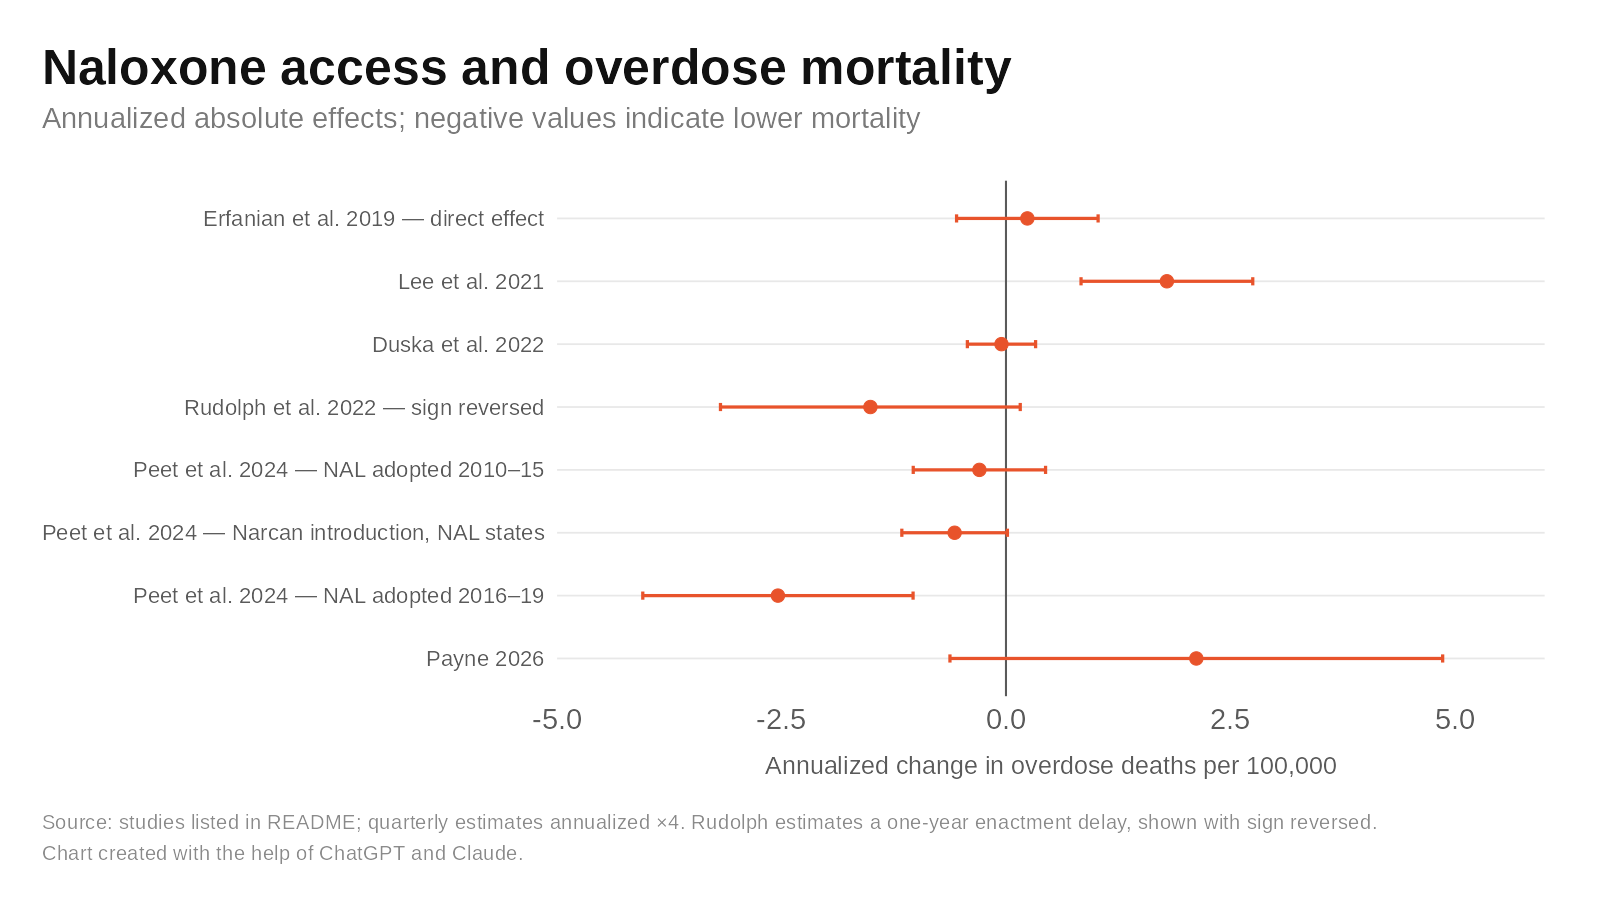
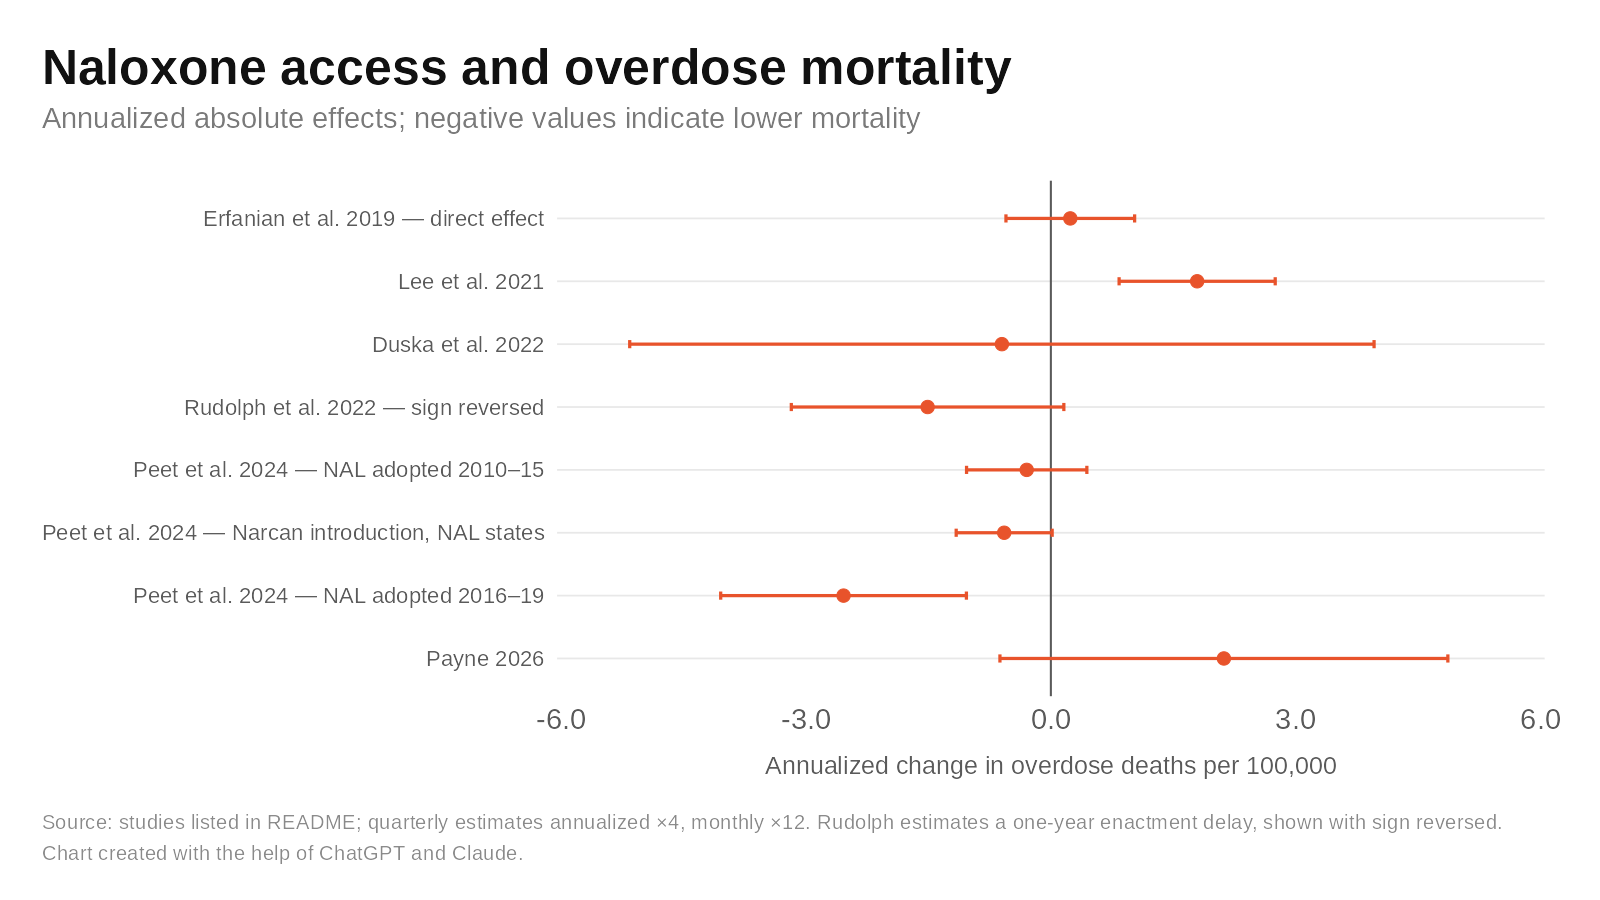
Verify Rees, Dowd, Duska, Toce against supplied full texts
- Rees: use published JLE Table 3 Poisson coefficient -0.095 (SE 0.039)
- Dowd: cite Table 2 IRRs 0.853 and 1.267 directly; document design
- Duska: estimate is per 100k per month; multiply by 12
- Toce: supplement confirms GEE with no state fixed effects
- Note that Alexeev does not re-estimate mortality
- Regenerate figures and effects.csv

Claude-Session: https://claude.ai/code/session_018rnpYJ2PKGEioDdm2cd7nr

diff --git a/README.md b/README.md
@@ -31,7 +31,7 @@ Rate ratios and estimates that can be represented on a percent-change scale are 
 
 ### Absolute effects
 
-Absolute rate differences are placed on a common annualized scale: deaths per 100,000 per year. Annual estimates are left unchanged; quarterly estimates are multiplied by 4. Monthly estimates would be multiplied by 12; the included set contains none.
+Absolute rate differences are placed on a common annualized scale: deaths per 100,000 per year. Annual estimates are left unchanged; quarterly estimates are multiplied by 4; the one monthly estimate (Duska) is multiplied by 12.
 
 ![Annualized absolute effects](figures/annualized_absolute_effects.svg)
 
@@ -40,20 +40,20 @@ Absolute rate differences are placed on a common annualized scale: deaths per 10
 | Study | Policy | Design | Outcome | Effect scale | Estimate | 95% CI | Notes | Source |
 |---|---|---|---|---|---:|---:|---|---|
 | McClellan et al. 2018 | NAL | Mixed-effects negative binomial (state random effects, year FE, 1-year lag) | Opioid overdose deaths | Relative (%) | −14.0% | −25.1% to −1.2% | Paper reports IRR 0.86, p = 0.033, and no interval; CI derived from the p-value. | [link](https://pubmed.ncbi.nlm.nih.gov/29610001/) |
-| Rees et al. 2019 | NAL | TWFE Poisson, state-year 1999–2014 | Opioid-related deaths (multiple-cause T-codes) | Relative (%) | −9.1% | −15.6% to −2.0% | exp(b)−1 from coefficient −0.095 (SE 0.038), full-controls column of the NBER working paper. Published version says the effect is driven by pre-2011 adopters. | [link](https://chicagounbound.uchicago.edu/jle/vol62/iss1/1/) |
+| Rees et al. 2019 | NAL | TWFE Poisson, state-year 1999–2014 | Opioid-related deaths (multiple-cause T-codes) | Relative (%) | −9.1% | −15.7% to −1.8% | exp(b)−1 from the published Table 3 Poisson full-controls coefficient −0.095 (SE 0.039). OLS columns give −15% to −21%. Effect is driven by pre-2011 adopters. | [link](https://chicagounbound.uchicago.edu/jle/vol62/iss1/1/) |
 | Atkins et al. 2019 | NAL (any naloxone policy) | TWFE Poisson DD, state-year 1999–2016 | Opioid overdose deaths | Relative (%) | +9.9% | −6.2% to +28.7% | Naloxone is a covariate in the paper's Good Samaritan analysis. Table 4 Panel B, 0.0943 (SE 0.0805). | [link](https://pmc.ncbi.nlm.nih.gov/articles/PMC6407344/) |
 | Abouk et al. 2019‡ | NAL, direct pharmacist authority | DID / event study, state-month 2005–2016 | Opioid overdose deaths | Relative (%) | −33.9% | −57.5% to −10.4% | 3+ years post-adoption: −0.387 (−0.656, −0.119) deaths per 100k per month, divided by comparison mean 1.14. Nine direct-authority states. | [link](https://pmc.ncbi.nlm.nih.gov/articles/PMC6503576/) |
 | Cataife et al. 2021† | NAL | Matched staggered DID, state-year 1999–2014 | Opioid-related deaths | Relative (%) | −0.2% | −20.5% to +25.3% | Table 1 Model 1 (homogeneous static model), −0.002 (SE 0.116). Authors prefer the region-by-year model. | [link](https://pubmed.ncbi.nlm.nih.gov/31951788/) |
 | Doleac & Mukherjee 2022 | NAL, third-party or standing order | Staggered DID, urban county-month 2010–2015 | Opioid-related deaths | Relative (%) | +1.0% | −7.8% to +9.8% | Published Table 4: 0.006 (SE 0.027) on 2010 baseline 0.601 per 100k per month. | [link](https://www.journals.uchicago.edu/doi/10.1086/719588) |
 | Sohn et al. 2023§ | Co-prescribing mandate | Negative-binomial DID, state-quarter 1999–2020 | Prescription/treatment-opioid deaths | Relative (%) | −16.0% | −28.1% to −3.9% | −8.61 (−15.13, −2.09) deaths per state-quarter, stated as 16%; illicit/synthetic estimate is null. Full text pending. | [link](https://www.sciencedirect.com/science/article/abs/pii/S0749379722005281) |
-| Dowd 2023 — 2018 giveaway | Naloxone giveaway | Tract/ZCTA distance-based DID and event study, Philadelphia and Pittsburgh | Opioid overdose deaths | Relative (%) | −14.7% | −31.0% to +5.6% | As previously coded; full text pending. | [link](https://onlinelibrary.wiley.com/doi/full/10.1002/hec.4755) |
-| Dowd 2023 — 2019 giveaway | Naloxone giveaway | Same | Opioid overdose deaths | Relative (%) | +26.7% | −1.5% to +62.9% | As previously coded; full text pending. | [link](https://onlinelibrary.wiley.com/doi/full/10.1002/hec.4755) |
+| Dowd 2023 — 2018 giveaway | Naloxone giveaway (13 Dec 2018) | Fixed-effects Poisson DID, census tract × quarter, Philadelphia five counties and Allegheny County, 2017Q2–2020Q1 | Opioid overdose deaths | Relative (%) | −14.7% | −31.0% to +5.6% | Table 2 IRR 0.853 [0.690–1.056]; treated tracts within 3 km of a giveaway site and more than 3 km from other free naloxone; two post quarters. Event study finds IRR 0.59 (p = 0.01) in the first post quarter. | [link](https://onlinelibrary.wiley.com/doi/full/10.1002/hec.4755) |
+| Dowd 2023 — 2019 giveaway | Naloxone giveaway (18 and 25 Sep 2019) | Same | Opioid overdose deaths | Relative (%) | +26.7% | −1.5% to +62.9% | Table 2 IRR 1.267 [0.985–1.629], p < 0.10. Pooled Callaway–Sant'Anna analysis of both giveaways finds no significant effect. | [link](https://onlinelibrary.wiley.com/doi/full/10.1002/hec.4755) |
 | HEALing Communities 2024¶ | Multicomponent RCT | Cluster randomized trial, 67 communities | Opioid overdose deaths | Relative (%) | −9.0% | −24.0% to +9.0% | Adjusted RR 0.91 (0.76–1.09), p = 0.30. | [link](https://www.nejm.org/doi/full/10.1056/NEJMoa2401177) |
 | Freisthler et al. 2024¶ | Multicomponent RCT | Same trial, secondary analysis | All-drug overdose deaths | Relative (%) | −8.0% | −22.0% to +7.0% | Adjusted RR 0.92 (0.78–1.07). Nested outcome on the same communities and period as the NEJM row. | [link](https://jamanetwork.com/journals/jamanetworkopen/fullarticle/2825142) |
 | Spackman et al. 2025 | Take-home naloxone distribution (Alberta) | Poisson PML with zone and time FE, 5 zones × month 2015–2019 | Opioid-related deaths | Relative (%), per 10,000 kits | −23.9% | −33.7% to −12.6% | Dose-response effect of kits in circulation, not a binary policy effect. Only five cross-sectional units. | [link](https://pubmed.ncbi.nlm.nih.gov/40459670/) |
 | Erfanian et al. 2019 — direct effect | NAL | Spatial Durbin TWFE, state-year 1999–2016 | Opioid overdose deaths per 100k | Annualized deaths / 100k / year | +0.24 | −0.55 to +1.03 | Direct effect 0.238 (p = 0.554), CI derived from p-value. Indirect (spillover) effect +5.77 (p < 0.001) and total effect about +6.0 are not plotted. | [link](https://rrs.scholasticahq.com/article/7932-the-impact-of-naloxone-access-laws-on-opioid-overdose-deaths-in-the-u-s) |
 | Lee et al. 2021 | NAL | Panel-matching DID, state-quarter 2007–2018 | All-drug overdose deaths | Annualized deaths / 100k / year | +1.79 | +0.84 to +2.75 | 1344.3 (627.1–2061.6) per 300 million per quarter, pooled over leads 0–12; ÷3000, ×4. | [link](https://jamanetwork.com/journals/jamanetworkopen/fullarticle/2776301) |
-| Duska et al. 2022 | Co-prescribing mandate (AZ, FL, RI, VT, VA) | Synthetic control, state-year 2012–2018 | Opioid-related deaths | Annualized deaths / 100k / year | −0.05 | −0.43 to +0.33 | From abstract; units and CI method pending full text. | [link](https://journals.sagepub.com/doi/10.1177/20503245221112575) |
+| Duska et al. 2022 | Co-prescribing mandate (AZ, FL, RI, VT, VA) | Generalized synthetic control, state-month 2012–2018 | Opioid-related deaths | Annualized deaths / 100k / year | −0.60 | −5.16 to +3.96 | Table 1 pooled ATT −0.05 (−0.43, 0.33) per 100k per month, parametric-bootstrap CI, ×12. Only 6–8 post-adoption months for AZ, FL, and RI. | [link](https://journals.sagepub.com/doi/10.1177/20503245221112575) |
 | Rudolph et al. 2022 | NAL | Doubly robust longitudinal estimator, US counties 2007–2018 | Opioid overdose deaths per 100k aged 12+, 2018 | Annualized deaths / 100k / year | −1.51 | −3.18 to +0.16 | Paper estimates the effect of delaying enactment by one year (+1.51); sign reversed here. Covariate-adjusted, not unit FE. | [link](https://pmc.ncbi.nlm.nih.gov/articles/PMC9373236/) |
 | Peet et al. 2024 — NAL adopted 2010–15 | NAL (dispensing) | Imputation DID, state-quarter | Non-synthetic opioid deaths, age-adjusted | Annualized deaths / 100k / year | −0.30 | −1.03 to +0.44 | Table 3 +LASSO, −0.074 (SE 0.094) per quarter ×4. | [link](https://www.nber.org/papers/w33105) |
 | Peet et al. 2024 — Narcan introduction, NAL states | Narcan introduction (2016) | Imputation DID, state-quarter 2010–2019 | Non-synthetic opioid deaths, age-adjusted | Annualized deaths / 100k / year | −0.57 | −1.16 to +0.02 | Table 3 +LASSO, −0.143 (SE 0.075) per quarter ×4. Not an NAL-adoption effect. | [link](https://www.nber.org/papers/w33105) |
@@ -63,13 +63,13 @@ Absolute rate differences are placed on a common annualized scale: deaths per 10
 ## Coding notes
 
 - **McClellan et al. (2018):** the paper prints a 14% reduction and p = 0.033 but no interval. The interval here is derived from the p-value. The model uses state random effects with a one-year treatment lag and no policy covariates.
-- **Rees et al. (2019):** the percentage is converted from the Poisson coefficient in the full-controls column of the working-paper Table 3. The authors describe the effect as 9–11% (working paper) or 9–10% (published). The published tables have not been checked.
+- **Rees et al. (2019):** the percentage is converted from the published Table 3 Poisson full-controls coefficient, −0.095 (SE 0.039). The OLS columns of the same table give −0.166 and −0.240 (15% and 21% reductions); the authors summarize the Poisson results as 9–10%.
 - **Erfanian et al. (2019):** the dependent variable is deaths per 100,000 in levels, so the row sits in the absolute panel. Only the within-state direct effect is plotted. The authors' headline is a significant positive spillover to neighboring states and a total effect of about +6 deaths per 100,000; the paper prints p-values only, so no CI can be derived for the indirect effect.
 - **Cataife et al. (2021):** the plotted scalar is the homogeneous static model (Table 1, Model 1). The authors prefer a dynamic specification with region-by-year heterogeneity, which finds reductions of 21–65% in western states, no effect in the Northeast and South, and a 43% increase in the implementation year in the Midwest.
 - **Abouk et al. (2019):** the displayed percent effect uses the 3+-year direct-pharmacist-authority estimate. The percentage CI treats the comparison mean as fixed.
-- **Doleac & Mukherjee (2022):** the published Table 4 coefficient is 0.006 (SE 0.027) per 100,000 per month. Regional estimates in the online appendix show a significant increase in the Midwest. Alexeev (2025, *Economic Inquiry*) argues the law-timing coding and inference are flawed; its published claim concerns ER admissions.
-- **Sohn et al. (2023)** and **Duska et al. (2022)** evaluate naloxone co-prescribing mandates, a prescriber-side policy, not public access laws or distribution.
-- **Dowd (2023):** the two Pennsylvania giveaways are shown separately because the paper reports opposite-signed event-specific estimates. The percentages imply log coefficients of about −0.16 (SE 0.11) and +0.24 (SE 0.13). The full text has not yet been checked.
+- **Doleac & Mukherjee (2022):** the published Table 4 coefficient is 0.006 (SE 0.027) per 100,000 per month. Regional estimates in the online appendix show a significant increase in the Midwest. Alexeev (2025, *Economic Inquiry*) re-analyzes the replication package and finds law-timing errors and invalid inference; the corrected ER-admission effect is null. The restricted mortality files are not in the package, so Alexeev does not re-estimate the mortality result.
+- **Sohn et al. (2023)** and **Duska et al. (2022)** evaluate naloxone co-prescribing mandates, a prescriber-side policy, not public access laws or distribution. Duska uses Xu's generalized synthetic control on state-month data with a parametric-bootstrap CI; the pooled estimate is per 100,000 per month and is multiplied by 12 here, which is why its interval is the widest in the absolute panel.
+- **Dowd (2023):** the two Pennsylvania giveaways are shown separately because Table 2 reports opposite-signed estimates: IRR 0.853 (0.690–1.056) after the December 2018 giveaway and 1.267 (0.985–1.629) after the September 2019 giveaway. The pooled Callaway–Sant'Anna analysis finds no significant effect on deaths. Treatment is defined by tract distance to giveaway sites (within 3 km) in the Philadelphia and Pittsburgh areas, with tract and quarter fixed effects.
 - **HEALing Communities / Freisthler (2024):** two publications from the same cluster-randomized trial, not independent experiments. The intervention included naloxone distribution, medications for opioid use disorder, and safer prescribing, so it does not identify a naloxone-only effect. The NEJM outcome is opioid-involved deaths; the Freisthler outcome is all-drug deaths.
 - **Spackman et al. (2025):** the effect is per 10,000 take-home naloxone kits in circulation across five Alberta health zones. It is a dose-response estimate with zone and time fixed effects, not a binary policy effect.
 - **Lee et al. (2021):** the outcome is all-drug overdose deaths. The reported number is a random-effects pooled mean over thirteen quarterly lead-specific effects, converted from per 300 million to per 100,000 and annualized. The authors interpret the positive estimate as moral hazard.

diff --git a/appendix/excluded_its.md b/appendix/excluded_its.md
@@ -16,7 +16,7 @@ Studies are listed by year. The first column of the table gives the reason class
 | One-group | Allen et al. 2022 | ARIMA interrupted time series; Clark County, Nevada, January 2015–December 2020 | Single county series before and after naloxone dispensing from public health vending machines (March 2019) | Step change −8.52 opioid-involved deaths per month (p = 0.002); slope change +1.01 per month (p < 0.001); 41 deaths averted in the first 12 months (229 observed vs 270 forecast) | Single-series ITS with no comparison. | [PMC](https://pmc.ncbi.nlm.nih.gov/articles/PMC9542801/) |
 | No unit FE | Tabatabai et al. 2023 | Longitudinal linear mixed model; 37 states, 2006–2019 | State-years with vs without an NAL; random state intercept and quadratic time trajectory | NAL: −0.313 synthetic-opioid deaths/100k (95% CI −0.552 to −0.074) | Random intercept rather than state fixed effects; no event-study or pre-trend check. | [PMC](https://pmc.ncbi.nlm.nih.gov/articles/PMC9834937/) |
 | One-group | Yeung et al. 2023 | Interrupted time series; Alberta municipalities and province, deaths October 2013–March 2019 | Municipal and provincial series before and after the community-based naloxone program (January 2016) and supervised consumption sites (2018) | Urban opioid-related deaths level change +9.1 per month (+40%; 95% CI 6.7 to 11.5) after the naloxone program | One-group ITS; the naloxone interruption coincides with fentanyl emergence in Alberta. | [PMC](https://pmc.ncbi.nlm.nih.gov/articles/PMC10287102/) |
-| No unit FE | Toce et al. 2024 | Interrupted time series; state-level opioid deaths at ages 15–24, 1999–2021 | States grouped by type of naloxone access law; population-averaged negative-binomial ITS | Trend (slope) IRR 0.97 (0.91–1.04) for patient-specific laws and 1.01 (0.96–1.06) for patient-nonspecific laws; immediate level-change IRR 0.88 (0.50–1.25) and 1.10 (0.94–1.27) | Published methods describe population-averaged negative-binomial models; no state fixed effects are reported. | [JAMA Pediatrics](https://jamanetwork.com/journals/jamapediatrics/fullarticle/2824897) |
+| No unit FE | Toce et al. 2024 | Interrupted time series; state-level opioid deaths at ages 15–24, 1999–2021 | States grouped by type of naloxone access law; population-averaged negative-binomial ITS | Trend (slope) IRR 0.97 (0.91–1.04) for patient-specific laws and 1.01 (0.96–1.06) for patient-nonspecific laws; immediate level-change IRR 0.88 (0.50–1.25) and 1.10 (0.94–1.27) | Supplement eMethods 3 confirms a population-averaged negative-binomial GEE with exchangeable within-state correlation, robust variance, and state policy covariates (pain clinic laws, prescribing guidelines, PDMP mandates, Good Samaritan laws); no state fixed effects. | [JAMA Pediatrics](https://jamanetwork.com/journals/jamapediatrics/fullarticle/2824897) |
 | No unit FE | Xuan et al. 2024 | Multisite interrupted time series; 351 Massachusetts municipalities, 2013–2018 | Municipalities that implemented pharmacy standing-order naloxone compared with municipalities that did not | Annualized RR 0.84 (95% CI 0.78–0.91) for the postimplementation slope; adjusted level change RR 1.09 (0.99–1.20); unadjusted level change RR 1.31 (1.22–1.41) | Segmented Poisson GEE adjusted for measured municipal covariates, but no municipality fixed effects. | [JAMA Network Open](https://jamanetwork.com/journals/jamanetworkopen/fullarticle/2822958) |
 | One-group | Håkansson et al. 2024 | Before-after with historic control period; Skåne County, Sweden, 2013–2017 vs 2019–2021 | Single region; take-home naloxone intervention period compared with a historic control period | Overdose deaths fell from 3.9 to 2.8 per 100k; IRR 0.72 (95% CI 0.56–0.92); men 0.65 (0.49–0.85); women 1.07 (0.60–1.87) | No comparison region. | [PMC](https://pmc.ncbi.nlm.nih.gov/articles/PMC10773398/) |
 | Few units | Newman et al. 2025 | Controlled interrupted time series; St. Louis City and County 2011–2022, collar counties 2015–2022 | Three regional monthly series compared using ARIMA/CITS with region-by-segment interactions | In St. Louis City, naloxone distribution was associated with an immediate −2.17 opioid-overdose deaths/100k/month level change (95% CI −3.28 to −1.06) and a −0.28/month slope change (−0.37 to −0.18); no effect in the two comparison regions | Region indicators act as unit effects for three aggregate units, but identification rests on two comparison series rather than a panel absorbing stable differences across many units. | [JSAT](https://www.jsatjournal.com/article/S2949-8759%2824%2900276-5/fulltext) |
@@ -29,7 +29,7 @@ Studies are listed by year. The first column of the table gives the reason class
 - **Naumann et al. (2019)** and **Xuan et al. (2024)** both provide nonimplementing units as a comparison series, but both estimate population-average effects with GEE and no unit fixed effects.
 - **Hamilton et al. (2021)** is the only county-level national panel in this group. It would move to the main analysis if the authors reported an NAL-only estimate.
 - **Taylor et al. (2022):** the interruption is the 2017 Maryland standing-order expansion; there is no untreated jurisdiction. The full text has not been checked.
-- **Toce et al. (2024):** the analysis is population-averaged, not a state-fixed-effects panel model. The commonly quoted IRRs are trend ratios, not level changes.
+- **Toce et al. (2024):** the analysis is a population-averaged GEE, not a state-fixed-effects panel model (confirmed in the supplement). The commonly quoted IRRs are trend ratios, not level changes.
 - **Newman et al. (2025):** this is a genuine controlled ITS, but the control is a comparison of three regional time series.
 - **Morgan et al. (2022)** and **Walley et al. (2026)** are dose-response analyses of distribution volume rather than evaluations of a discrete policy change; both find no protective association at the community level.
 

diff --git a/REVIEW.md b/REVIEW.md
@@ -15,7 +15,7 @@ All findings in sections 1–4 have been applied in the repository (commit follo
 - Eleven studies were added to the appendix (Bird 2016, Naumann 2019, Hamilton 2021, Antoniou 2022, Morgan 2022, Allen 2022, Tabatabai 2023, Yeung 2023, Håkansson 2024, Walley 2026, Goodman 2026), and the Newman, Toce, and Taylor rows were corrected. Every new number was checked against the paper's abstract or full text.
 - README rewritten to match; duplicate column header removed.
 
-Rows still awaiting full text (values unchanged from the original coding, flagged "pending" in the data): Dowd 2023, Duska 2022, Sohn 2023, Taylor 2022, and the published JLE tables for Rees 2019. Section 6 lists what is needed.
+Second pass with owner-supplied PDFs (Rees JLE, Dowd, Duska, Toce supplement, Alexeev): Dowd's two rows are confirmed exactly against Table 2 (IRR 0.853 and 1.267) and the pooled null is confirmed. Rees's published Poisson coefficient is −0.095 (SE 0.039), so the CI became −15.7% to −1.8%. Duska's estimate turned out to be per 100,000 per **month** (state-month generalized synthetic control), not per year; the row is now multiplied by 12 (−0.60, −5.16 to 3.96). Toce's supplement confirms a GEE with no state fixed effects. Alexeev does not re-estimate mortality because the restricted mortality files are not in the replication package. Still awaiting full text: Sohn 2023 and Taylor 2022.
 
 ## 1. Headline findings
 
